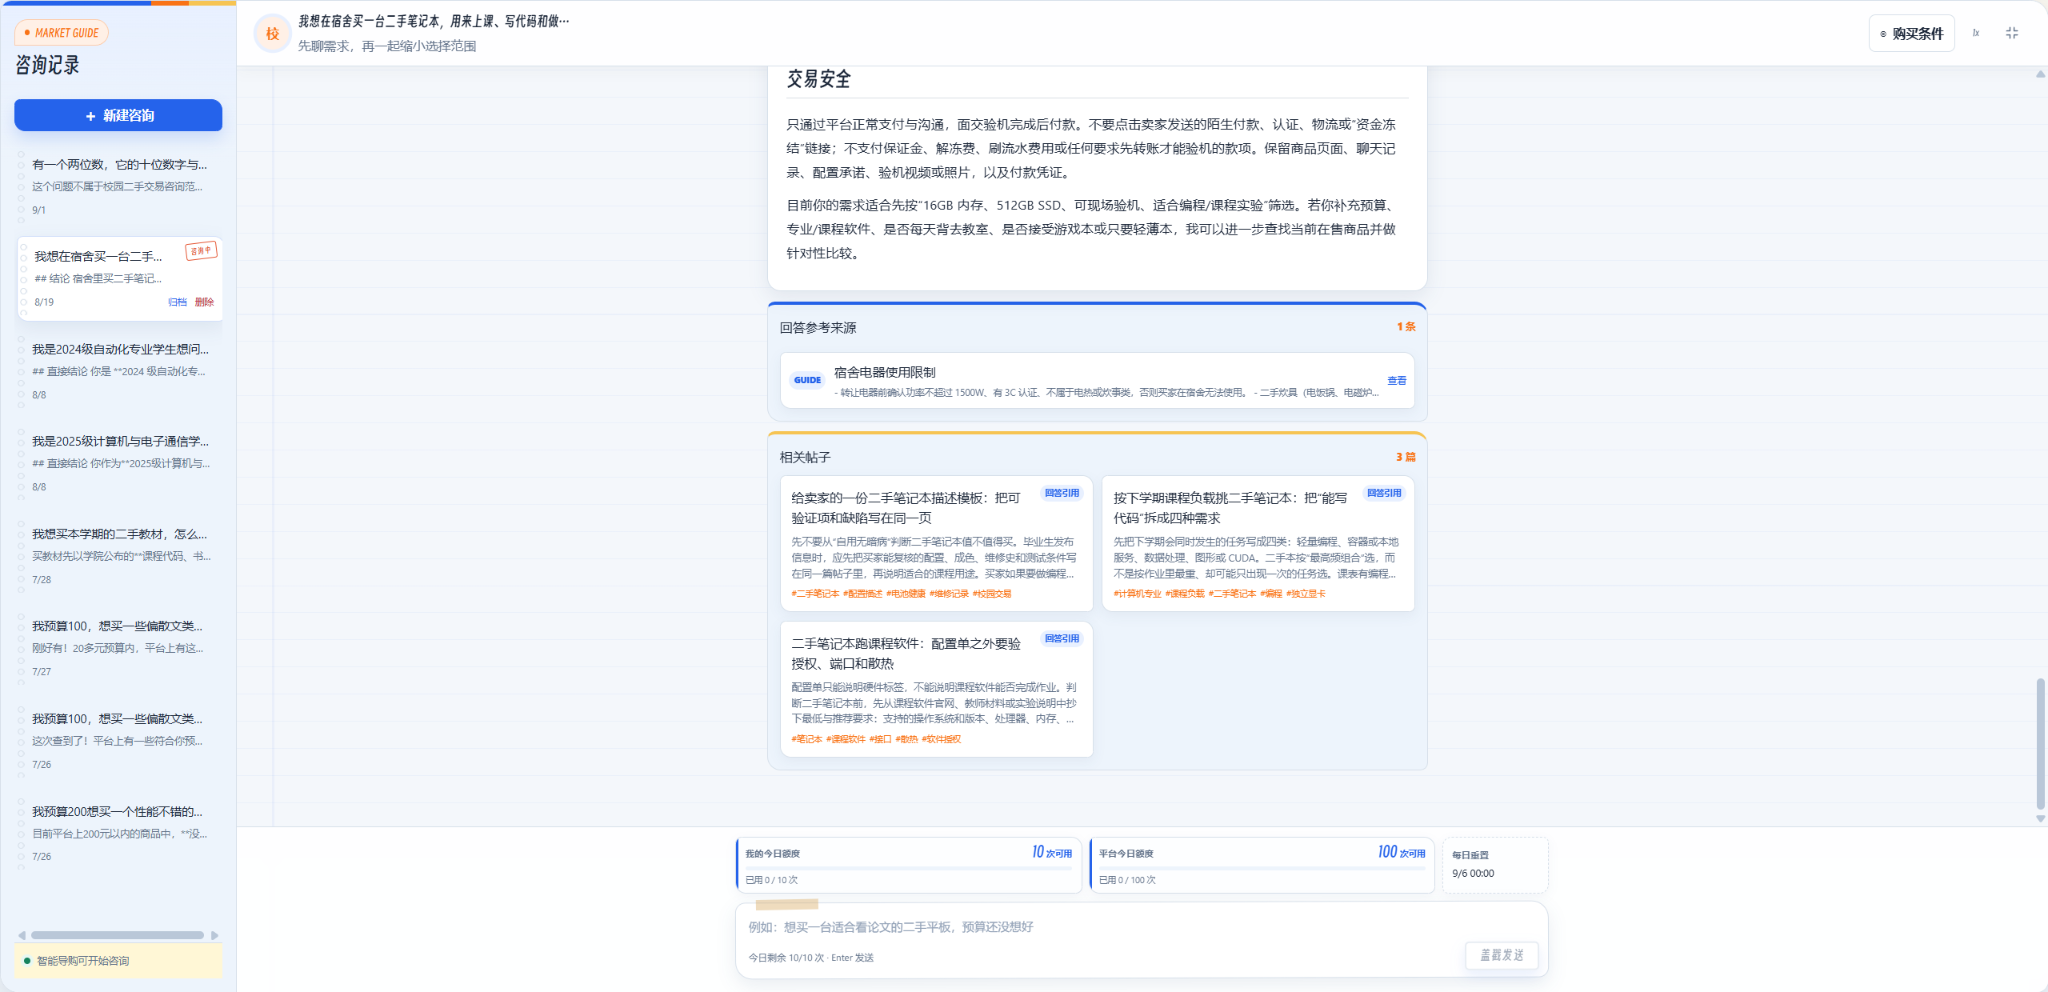
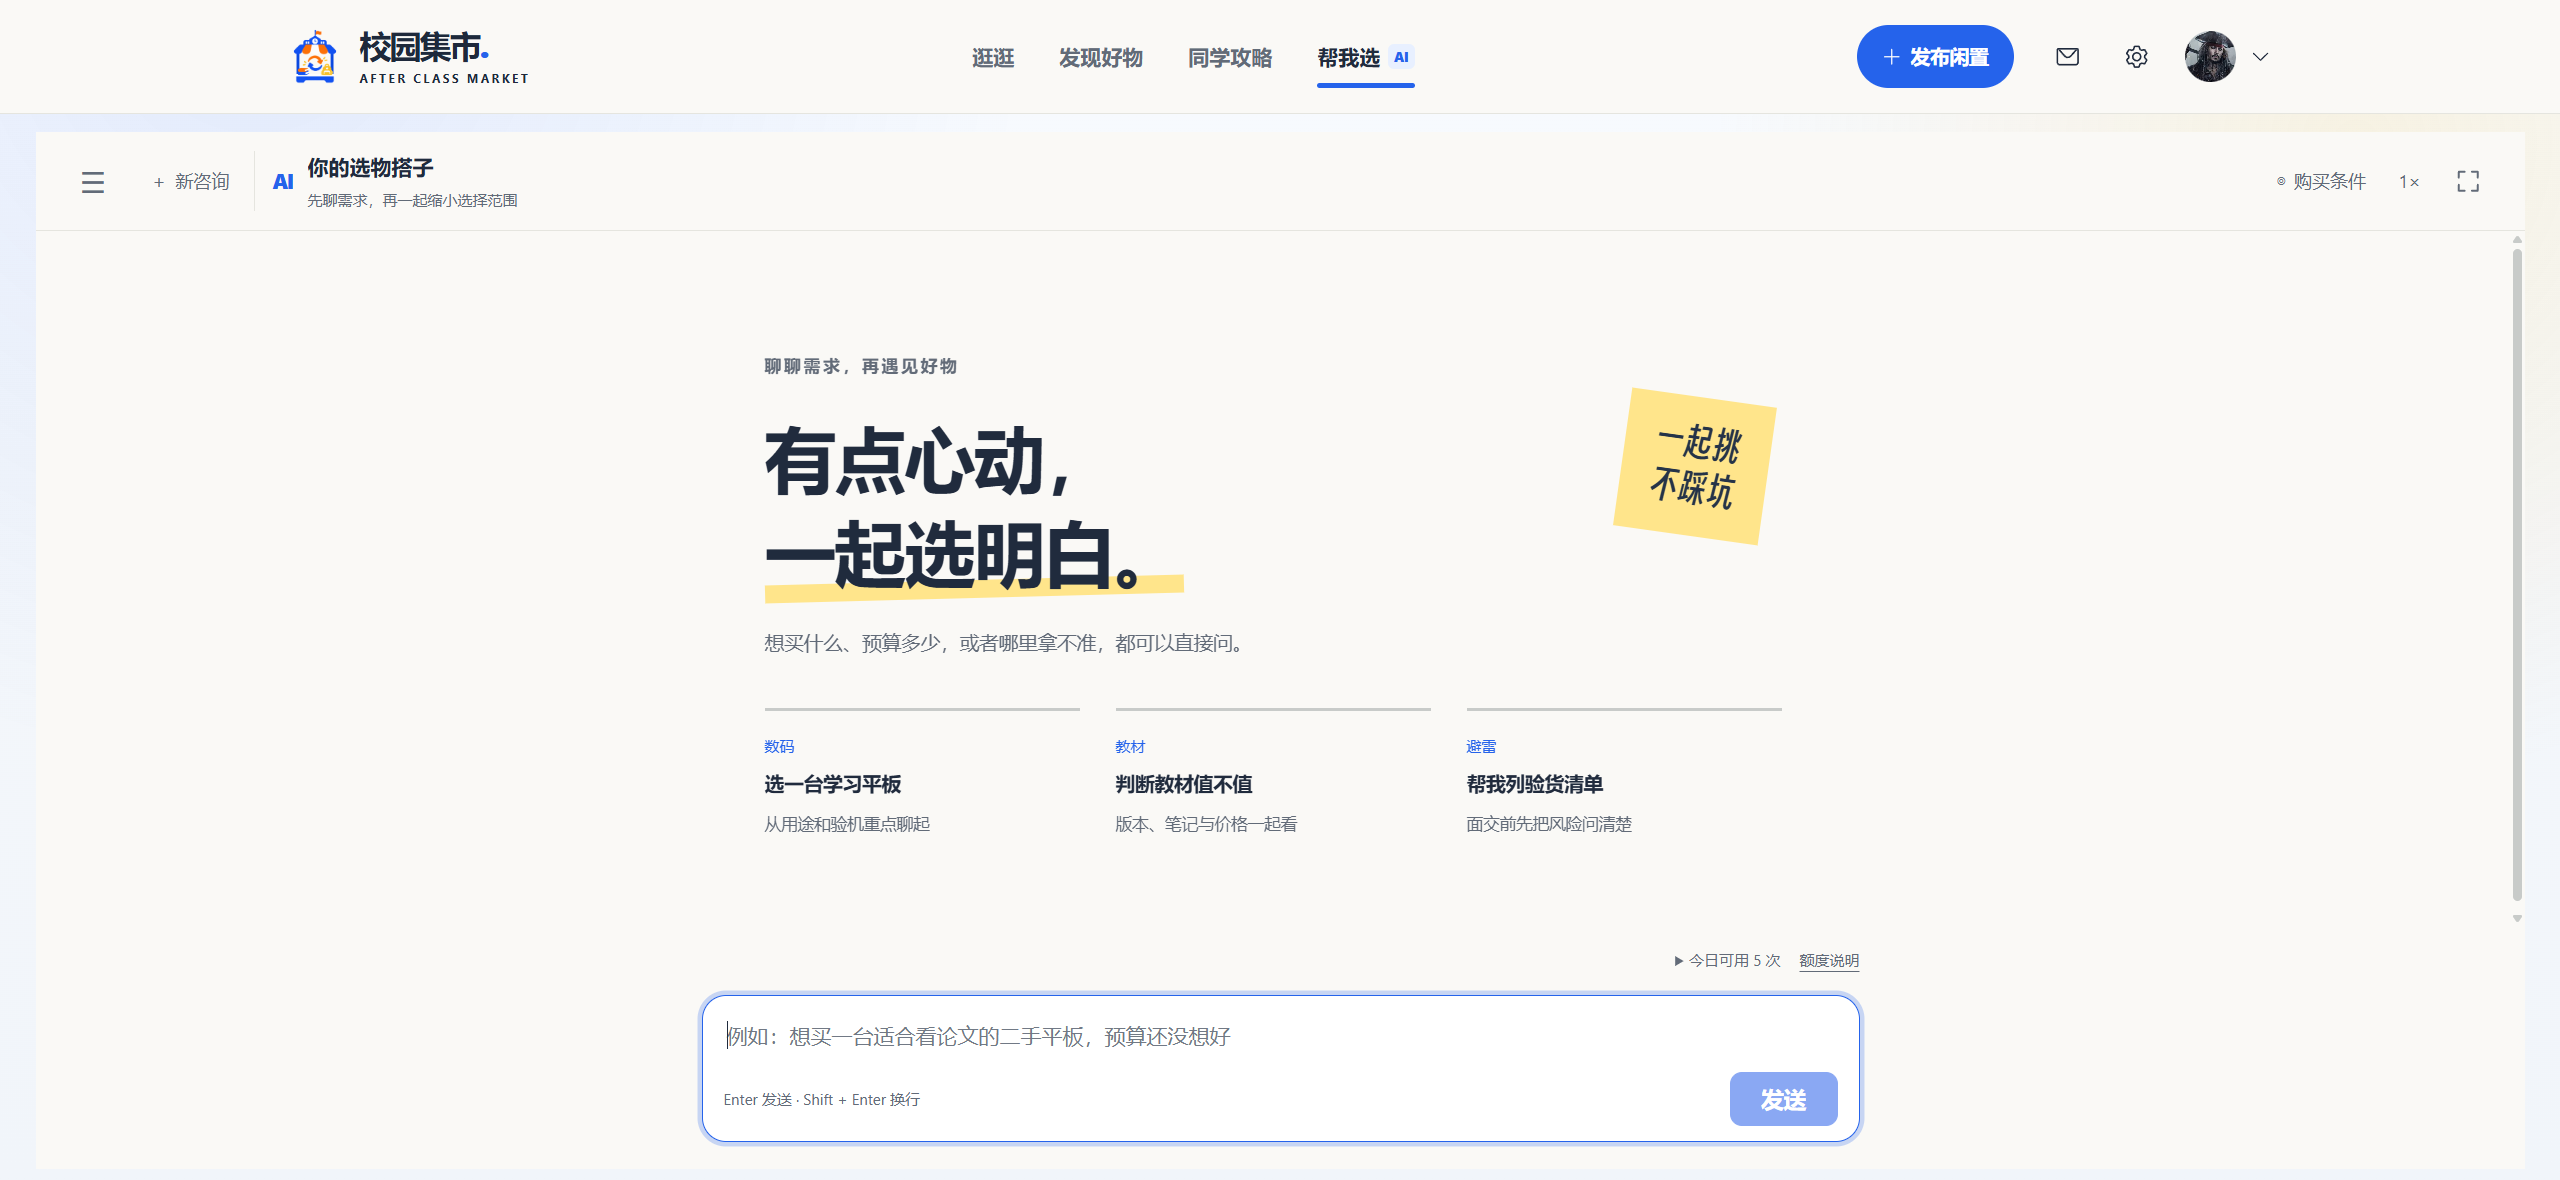
去除冗余描述

diff --git a/market_frontend/src/views/home/index.vue b/market_frontend/src/views/home/index.vue
@@ -2,7 +2,6 @@
   <div class="market-page discover-home">
     <section class="discovery-hero" aria-labelledby="discovery-title">
       <div class="discovery-copy">
-        <span class="discovery-kicker"><i></i>课间，来逛逛。</span>
         <h1 id="discovery-title">
           好物不毕业，<br /><span>陪你下一程。</span>
         </h1>
@@ -53,7 +52,7 @@
         />
         <div v-else class="scene-fallback">把喜欢，继续传下去。</div>
         <span class="scene-caption"
-          >给生活一点新鲜感 <el-icon><TopRight /></el-icon
+          >发现好物 <el-icon><TopRight /></el-icon
         ></span>
         <span class="scene-sticker"
           ><small>GOOD THINGS, AGAIN.</small>闲置好物<br /><strong
@@ -69,7 +68,7 @@
         <div>
           <span class="section-index">01 / DISCOVER</span>
           <h2 id="fresh-title">
-            下一件心动好物<span class="heading-dot"></span>
+            下一件心动好物
           </h2>
         </div>
         <router-link class="text-link" to="/user/commodity"

diff --git a/market_frontend/src/layout/MarketNavigation.vue b/market_frontend/src/layout/MarketNavigation.vue
@@ -19,7 +19,7 @@
       <img :src="setting.logo" alt="" width="40" height="40" />
       <span
         ><strong>校园集市<span class="brand-dot">.</span></strong
-        ><small>AFTER CLASS MARKET</small></span
+        ><small>SHARING MARKET</small></span
       >
     </router-link>
     <nav class="market-desktop-nav" aria-label="主导航">

diff --git a/market_frontend/src/views/user/commodity/index.vue b/market_frontend/src/views/user/commodity/index.vue
@@ -2,7 +2,7 @@
   <div class="market-page browse-market">
     <header class="browse-heading">
       <div>
-        <span class="browse-kicker">好物循环 · 校园日常</span>
+        <span class="browse-kicker">好物循环</span>
         <h1>发现你的<span>下一件好物</span></h1>
       </div>
       <el-button
